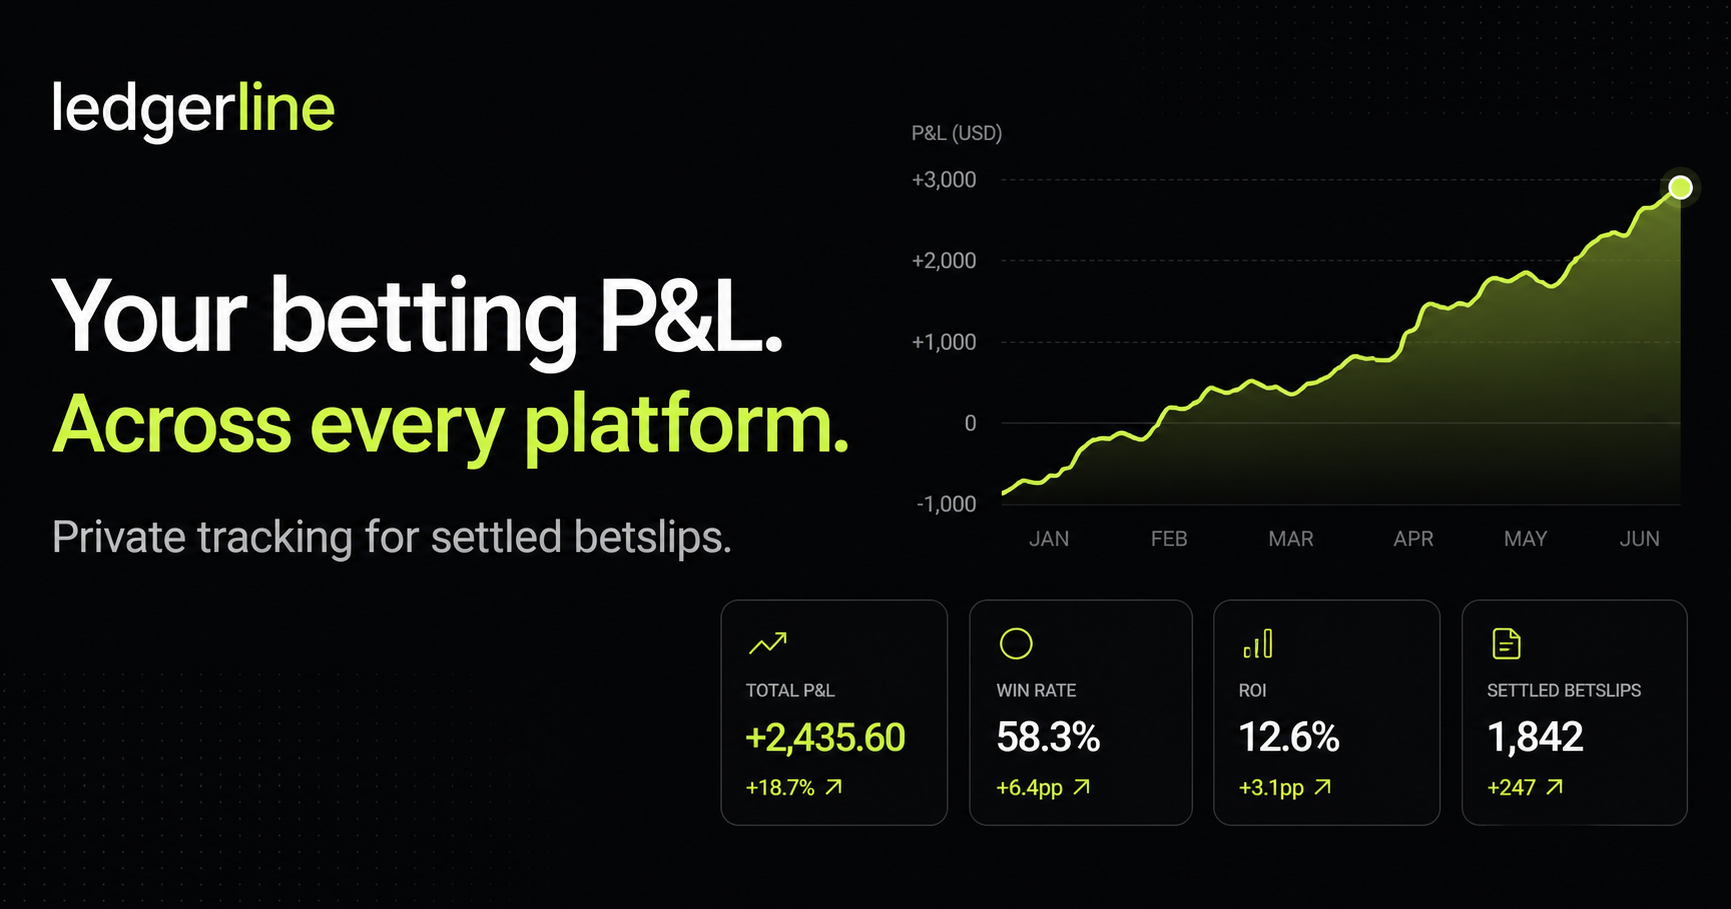
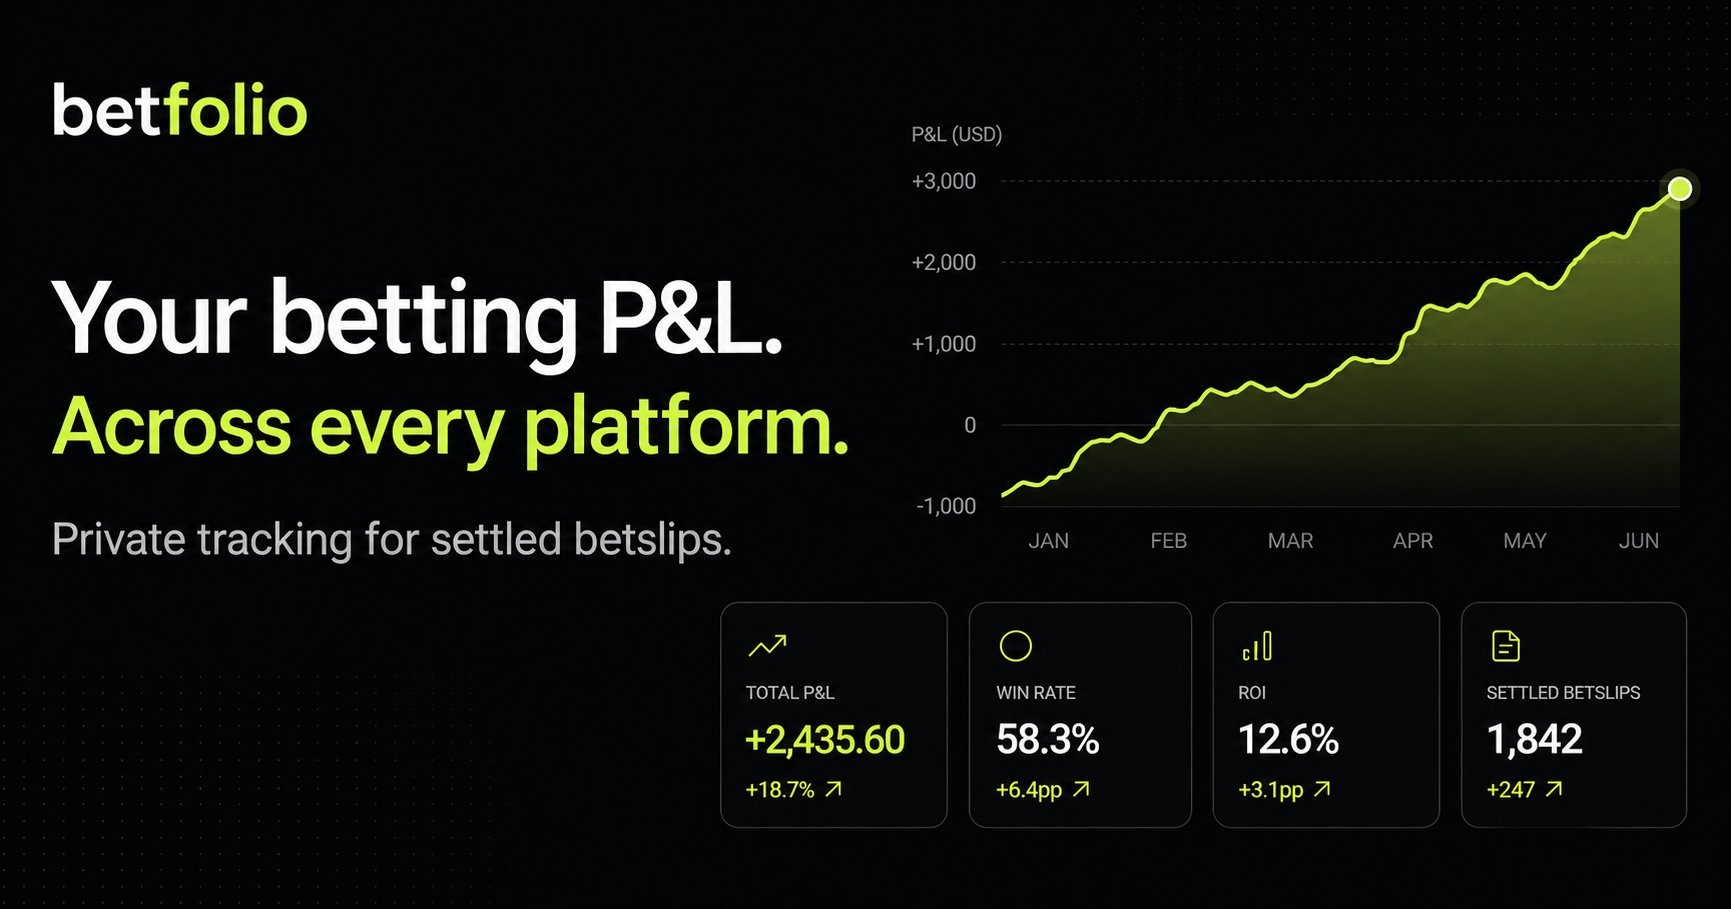
Rename product to Betfolio

diff --git a/app/page.tsx b/app/page.tsx
@@ -37,7 +37,7 @@ export default function Home() {
 
     <section className="border-y border-white/[.07] bg-[#0e0f11] px-5 py-24 sm:px-8"><div className="mx-auto max-w-7xl"><div className="mb-12 max-w-xl"><p className="text-xs font-bold uppercase tracking-[.18em] text-lime-300">One clean workflow</p><h2 className="mt-4 text-3xl font-semibold tracking-[-.04em] sm:text-5xl">From betslip to clarity.</h2></div><div className="grid border-y border-white/[.07] sm:grid-cols-2 lg:grid-cols-4">{steps.map(([number, title, copy], index) => <div key={number} className="relative border-b border-white/[.07] py-8 sm:px-6 lg:border-b-0 lg:border-r lg:last:border-r-0"><span className="font-mono text-xs text-zinc-600">{number}</span><h3 className="mt-8 text-lg font-semibold">{title}</h3><p className="mt-2 text-sm leading-6 text-zinc-500">{copy}</p>{index < 3 && <ArrowRight className="absolute right-4 top-8 hidden size-4 text-zinc-800 lg:block" />}</div>)}</div></div></section>
 
-    <section className="mx-auto grid max-w-7xl gap-14 px-5 py-24 sm:px-8 lg:grid-cols-2 lg:items-center lg:py-32"><div><p className="text-xs font-bold uppercase tracking-[.18em] text-lime-300">Facts in. Accurate P&amp;L out.</p><h2 className="mt-4 max-w-xl text-4xl font-semibold tracking-[-.05em] sm:text-5xl">AI reads the slip.<br />You approve the numbers.</h2><p className="mt-6 max-w-lg leading-7 text-zinc-500">Ledgerline never asks AI to calculate your profit. It extracts visible facts, flags ambiguity, and waits for your confirmation. Accounting stays deterministic.</p><div className="mt-8 grid gap-3 text-sm text-zinc-300">{["Every import reviewed before saving", "Original currency preserved", "Private, owner-only betslip storage"].map((item) => <div key={item} className="flex items-center gap-3"><span className="grid size-6 place-items-center rounded-full bg-lime-300/10"><Check className="size-3.5 text-lime-300" /></span>{item}</div>)}</div></div><div className="rounded-3xl border border-white/[.08] bg-[#121315] p-5"><div className="rounded-2xl bg-[#e9f3ee] p-5 text-zinc-900"><div className="flex items-center justify-between"><span className="text-sm font-black">BET365</span><span className="rounded-full bg-emerald-700 px-2 py-1 text-[10px] font-bold text-white">WON</span></div><div className="my-5 border-t border-dashed border-zinc-300" /><p className="text-xs text-zinc-500">Accumulator · 3 selections</p><p className="mt-2 text-2xl font-bold">Return £94.40</p><p className="mt-1 text-sm text-zinc-500">Stake £20.00 · Odds 4.72</p></div><div className="grid grid-cols-3 gap-2 py-5"><div className="rounded-xl bg-white/[.04] p-3 text-center"><ScanLine className="mx-auto size-4 text-lime-300" /><p className="mt-2 text-[10px] text-zinc-500">Fields found</p><p className="mt-1 text-sm font-bold">16</p></div><div className="rounded-xl bg-white/[.04] p-3 text-center"><FileSearch className="mx-auto size-4 text-lime-300" /><p className="mt-2 text-[10px] text-zinc-500">Checks passed</p><p className="mt-1 text-sm font-bold">9/10</p></div><div className="rounded-xl bg-white/[.04] p-3 text-center"><Layers3 className="mx-auto size-4 text-lime-300" /><p className="mt-2 text-[10px] text-zinc-500">Est. P&amp;L</p><p className="mt-1 text-sm font-bold text-lime-300">+£74.40</p></div></div></div></section>
+    <section className="mx-auto grid max-w-7xl gap-14 px-5 py-24 sm:px-8 lg:grid-cols-2 lg:items-center lg:py-32"><div><p className="text-xs font-bold uppercase tracking-[.18em] text-lime-300">Facts in. Accurate P&amp;L out.</p><h2 className="mt-4 max-w-xl text-4xl font-semibold tracking-[-.05em] sm:text-5xl">AI reads the slip.<br />You approve the numbers.</h2><p className="mt-6 max-w-lg leading-7 text-zinc-500">Betfolio never asks AI to calculate your profit. It extracts visible facts, flags ambiguity, and waits for your confirmation. Accounting stays deterministic.</p><div className="mt-8 grid gap-3 text-sm text-zinc-300">{["Every import reviewed before saving", "Original currency preserved", "Private, owner-only betslip storage"].map((item) => <div key={item} className="flex items-center gap-3"><span className="grid size-6 place-items-center rounded-full bg-lime-300/10"><Check className="size-3.5 text-lime-300" /></span>{item}</div>)}</div></div><div className="rounded-3xl border border-white/[.08] bg-[#121315] p-5"><div className="rounded-2xl bg-[#e9f3ee] p-5 text-zinc-900"><div className="flex items-center justify-between"><span className="text-sm font-black">BET365</span><span className="rounded-full bg-emerald-700 px-2 py-1 text-[10px] font-bold text-white">WON</span></div><div className="my-5 border-t border-dashed border-zinc-300" /><p className="text-xs text-zinc-500">Accumulator · 3 selections</p><p className="mt-2 text-2xl font-bold">Return £94.40</p><p className="mt-1 text-sm text-zinc-500">Stake £20.00 · Odds 4.72</p></div><div className="grid grid-cols-3 gap-2 py-5"><div className="rounded-xl bg-white/[.04] p-3 text-center"><ScanLine className="mx-auto size-4 text-lime-300" /><p className="mt-2 text-[10px] text-zinc-500">Fields found</p><p className="mt-1 text-sm font-bold">16</p></div><div className="rounded-xl bg-white/[.04] p-3 text-center"><FileSearch className="mx-auto size-4 text-lime-300" /><p className="mt-2 text-[10px] text-zinc-500">Checks passed</p><p className="mt-1 text-sm font-bold">9/10</p></div><div className="rounded-xl bg-white/[.04] p-3 text-center"><Layers3 className="mx-auto size-4 text-lime-300" /><p className="mt-2 text-[10px] text-zinc-500">Est. P&amp;L</p><p className="mt-1 text-sm font-bold text-lime-300">+£74.40</p></div></div></div></section>
 
     <section className="px-5 pb-24 sm:px-8"><div className="mx-auto max-w-7xl overflow-hidden rounded-3xl border border-lime-300/15 bg-lime-300/[.055] px-6 py-16 text-center sm:px-10"><h2 className="text-4xl font-semibold tracking-[-.05em]">Know your real numbers.</h2><p className="mx-auto mt-4 max-w-lg text-zinc-400">Your first import takes a minute. Your betting history stays yours.</p><ButtonLink href="/start" className="mt-8 h-12 px-6">Start tracking <ArrowRight className="size-4" /></ButtonLink></div></section>
     <footer className="border-t border-white/[.07] px-5 py-8 sm:px-8"><div className="mx-auto flex max-w-7xl flex-col gap-4 text-xs text-zinc-600 sm:flex-row sm:items-center sm:justify-between"><Brand /><p>Historical tracking only. No tips, odds, or betting recommendations.</p></div></footer>

diff --git a/app/start/page.tsx b/app/start/page.tsx
@@ -12,5 +12,5 @@ export default async function StartPage() {
     const profile = await getCurrentProfile();
     if (profile) redirect("/dashboard");
   }
-  return <main className="noise grid min-h-screen place-items-center bg-[#0b0c0e] px-5 py-12 text-white"><div className="absolute inset-0 bg-[radial-gradient(circle_at_50%_20%,rgba(190,242,100,.07),transparent_35%)]" /><div className="relative w-full max-w-md"><div className="mb-8 flex justify-center"><Brand /></div><div className="rounded-3xl border border-white/10 bg-[#121315]/95 p-6 shadow-[0_30px_100px_rgba(0,0,0,.45)] sm:p-8"><div className="mb-7"><p className="text-xs font-bold uppercase tracking-[.16em] text-lime-300">Your private tracker</p><h1 className="mt-3 text-3xl font-semibold tracking-[-.04em]">Track every settled bet</h1><p className="mt-3 text-sm leading-6 text-zinc-500">Create one unique username, protect it with a password, and access your history from any device.</p></div><CredentialsForm /><div className="mt-7 flex gap-2.5 border-t border-white/[.07] pt-5 text-xs leading-5 text-zinc-600"><LockKeyhole className="mt-0.5 size-4 shrink-0" /><p>Your password is handled by Supabase Auth and is never stored in Ledgerline’s application tables.</p></div></div></div></main>;
+  return <main className="noise grid min-h-screen place-items-center bg-[#0b0c0e] px-5 py-12 text-white"><div className="absolute inset-0 bg-[radial-gradient(circle_at_50%_20%,rgba(190,242,100,.07),transparent_35%)]" /><div className="relative w-full max-w-md"><div className="mb-8 flex justify-center"><Brand /></div><div className="rounded-3xl border border-white/10 bg-[#121315]/95 p-6 shadow-[0_30px_100px_rgba(0,0,0,.45)] sm:p-8"><div className="mb-7"><p className="text-xs font-bold uppercase tracking-[.16em] text-lime-300">Your private tracker</p><h1 className="mt-3 text-3xl font-semibold tracking-[-.04em]">Track every settled bet</h1><p className="mt-3 text-sm leading-6 text-zinc-500">Create one unique username, protect it with a password, and access your history from any device.</p></div><CredentialsForm /><div className="mt-7 flex gap-2.5 border-t border-white/[.07] pt-5 text-xs leading-5 text-zinc-600"><LockKeyhole className="mt-0.5 size-4 shrink-0" /><p>Your password is handled by Supabase Auth and is never stored in Betfolio’s application tables.</p></div></div></div></main>;
 }

diff --git a/app/layout.tsx b/app/layout.tsx
@@ -18,12 +18,12 @@ export async function generateMetadata(): Promise<Metadata> {
   const host = requestHeaders.get("x-forwarded-host") ?? requestHeaders.get("host") ?? "localhost:3000";
   const protocol = requestHeaders.get("x-forwarded-proto") ?? (host.startsWith("localhost") ? "http" : "https");
   const origin = `${protocol}://${host}`;
-  const title = "Ledgerline — Betting P&L tracker";
+  const title = "Betfolio — Betting P&L tracker";
   const description = "Private, accurate profit-and-loss tracking across every betting platform.";
   return {
-    title: { default: title, template: "%s · Ledgerline" }, description,
+    title: { default: title, template: "%s · Betfolio" }, description,
     icons: { icon: "/favicon.svg" },
-    openGraph: { title, description, type: "website", url: origin, images: [{ url: `${origin}/og.png`, width: 1200, height: 630, alt: "Ledgerline betting P&L dashboard" }] },
+    openGraph: { title, description, type: "website", url: origin, images: [{ url: `${origin}/og.png`, width: 1200, height: 630, alt: "Betfolio betting P&L dashboard" }] },
     twitter: { card: "summary_large_image", title, description, images: [`${origin}/og.png`] },
   };
 }

diff --git a/components/brand.tsx b/components/brand.tsx
@@ -1,8 +1,8 @@
 import Link from "next/link";
 
 export function Brand({ compact = false }: { compact?: boolean }) {
-  return <Link href="/" className="group inline-flex items-center gap-2.5" aria-label="Ledgerline home">
-    <span className="grid size-8 place-items-center rounded-[10px] bg-lime-300 text-[13px] font-black text-zinc-950 shadow-[0_0_28px_rgba(190,242,100,.15)]">L</span>
-    {!compact && <span className="text-[15px] font-bold tracking-[-.02em] text-white">ledgerline</span>}
+  return <Link href="/" className="group inline-flex items-center gap-2.5" aria-label="Betfolio home">
+    <span className="grid size-8 place-items-center rounded-[10px] bg-lime-300 text-[13px] font-black text-zinc-950 shadow-[0_0_28px_rgba(190,242,100,.15)]">B</span>
+    {!compact && <span className="text-[15px] font-bold tracking-[-.02em] text-white">betfolio</span>}
   </Link>;
 }

diff --git a/lib/username/credentials.ts b/lib/username/credentials.ts
@@ -1,6 +1,8 @@
 import { z } from "zod";
 import { usernameSchema } from "./validation";
 
+// This is an immutable internal Auth namespace, not a user-facing brand.
+// Keeping it stable ensures existing accounts still resolve after product renames.
 const AUTH_EMAIL_DOMAIN = "users.ledgerline.invalid";
 
 export const passwordSchema = z

diff --git a/README.md b/README.md
@@ -1,6 +1,6 @@
-# Ledgerline — Betting P&L Tracker
+# Betfolio — Betting P&L Tracker
 
-Ledgerline is a private historical betting profit-and-loss tracker. A user creates a globally unique username and password account, uploads a settled betslip, reviews structured extraction, and confirms a deterministic ledger import. It does not offer picks, predictions, live odds, or wager placement.
+Betfolio is a private historical betting profit-and-loss tracker. A user creates a globally unique username and password account, uploads a settled betslip, reviews structured extraction, and confirms a deterministic ledger import. It does not offer picks, predictions, live odds, or wager placement.
 
 ## Architecture
 
@@ -32,9 +32,9 @@ The app displays realistic read-only preview data when public Supabase variables
 
 ## Supabase setup
 
-Email/password signups must be enabled and email confirmation must be disabled because Ledgerline does not collect a deliverable email address. Local configuration already sets `enable_anonymous_sign_ins = false` and `enable_confirmations = false` in `supabase/config.toml`. Apply equivalent Auth settings to a hosted project.
+Email/password signups must be enabled and email confirmation must be disabled because Betfolio does not collect a deliverable email address. Local configuration already sets `enable_anonymous_sign_ins = false` and `enable_confirmations = false` in `supabase/config.toml`. Apply equivalent Auth settings to a hosted project.
 
-The visible username is converted deterministically to an internal, non-deliverable Auth identifier. Supabase Auth stores and verifies the password hash; Ledgerline never stores plaintext passwords or custom password hashes. The case-insensitive unique index on `profiles.username` guarantees one username across all users. The profile UUID remains the same Supabase Auth user UUID used by every owned record and RLS policy.
+The visible username is converted deterministically to an internal, non-deliverable Auth identifier. Supabase Auth stores and verifies the password hash; Betfolio never stores plaintext passwords or custom password hashes. The case-insensitive unique index on `profiles.username` guarantees one username across all users. The profile UUID remains the same Supabase Auth user UUID used by every owned record and RLS policy.
 
 Apply all schema, RLS, Storage, analytics, and transaction changes with migrations:
 
